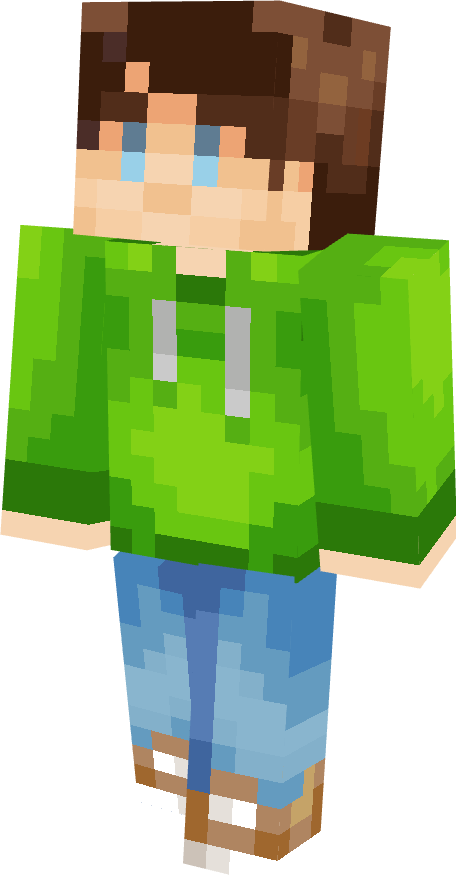
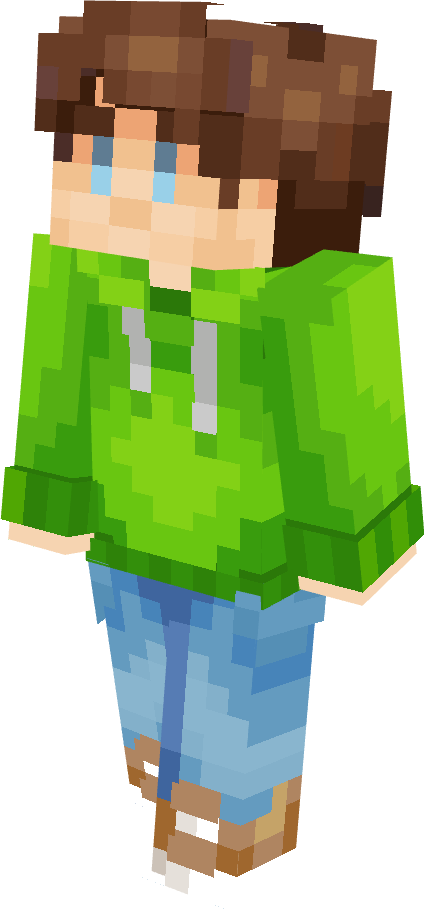
About page, presentation card, presentation text

diff --git a/src/components/ui/presentationcard.tsx b/src/components/ui/presentationcard.tsx
@@ -1,0 +1,98 @@
+import React, { useState } from 'react';
+import { twMerge } from "tailwind-merge";
+
+import styles from '../../assets/styles/components/presentationcard.module.css';
+
+import FrozenmanHead from '../../assets/image/skins/frozenman_head.png?url';
+import MorticzekHead from '../../assets/image/skins/morticzek_head.png?url';
+import MivosVanosHead from '../../assets/image/skins/mivosvanos_head.png?url';
+import QxertyHead from '../../assets/image/skins/qxerty_head.png?url';
+import JustWhenHead from '../../assets/image/skins/justwhen_head.png?url';
+
+import Frozenman from '../../assets/image/skins/frozenman.png?url';
+import Morticzek from '../../assets/image/skins/morticzek.png?url';
+import MivosVanos from '../../assets/image/skins/mivosvanos.png?url';
+import Qxerty from '../../assets/image/skins/qxerty.png?url';
+import JustWhen from '../../assets/image/skins/justwhen.png?url';
+
+const heads = {
+    frozenman: FrozenmanHead,
+    morticzek: MorticzekHead,
+    mivosvanos: MivosVanosHead,
+    qxerty: QxertyHead,
+    justwhen: JustWhenHead,
+};
+
+const names: { [key: string]: string } = {
+    frozenman: 'Frozenman',
+    morticzek: 'Morticzek',
+    mivosvanos: 'MivosVanos',
+    qxerty: 'Qxerty',
+    justwhen: 'JustWhen',
+};
+
+const descriptions: { [key: string]: string } = {
+    frozenman: 'Lorem ipsum dolor sit amet, consectetur adipiscing elit. Morbi id porttitor metus, sed egestas ex. In hac habitasse platea dictumst. Maecenas quis nisi nibh. Fusce sagittis urna quis nibh lacinia, a sollicitudin sapien sagittis. Phasellus porttitor, tellus ac dignissim elementum, risus ex auctor dui, id commodo risus mi vitae metus. Donec blandit quam a purus faucibus condimentum.',
+    morticzek: 'Description for Morticzek.',
+    mivosvanos: 'Description for MivosVanos.',
+    qxerty: 'Description for Qxerty.',
+    justwhen: 'Description for JustWhen.',
+};
+
+const images: { [key: string]: string } = {
+    frozenman: Frozenman,
+    morticzek: Morticzek,
+    mivosvanos: MivosVanos,
+    qxerty: Qxerty,
+    justwhen: JustWhen,
+};
+
+const PresentationCard = () => {
+    // Define state variables
+    const [selectedName, setSelectedName] = useState(names.frozenman);
+    const [selectedDescription, setSelectedDescription] = useState(descriptions.frozenman);
+    const [selectedImage, setSelectedImage] = useState(images.frozenman);
+
+    // Event handler for button click
+    const handleButtonClick = (name: string) => {
+        setSelectedName(names[name]);
+        setSelectedDescription(descriptions[name]);
+        setSelectedImage(images[name]);
+    };
+
+    return (
+        <div className="container mx-auto p-4">
+            <div className="flex justify-center bg-neutral-800 w-fit mx-auto m-4 text-color px-8 py-4 rounded-xl shadow-lg">
+                {Object.keys(heads).map((name, index) => (
+                    <div key={index} className="flex justify-center items-center mx-2">
+                        <button
+                            className="w-16 h-16 rounded-full border-2 border-transparent hover:border-gray-400 transition-colors duration-300"
+                            onClick={() => handleButtonClick(name)}
+                        >
+                            <img
+                                src={heads[name]}
+                                alt="Head"
+                                className="w-16 h-16 rounded-full"
+                            />
+                        </button>
+                    </div>
+                ))}
+            </div>
+            <div className="flex justify-center items-center w-full lg:w-2/3 container mx-auto bg-neutral-800 rounded-xl shadow-lg divide-x-4">
+                <div className="w-1/2 text-left divide-y-2 pr-4 p-6">
+                    <h2 className={twMerge(styles.h2, 'mb-4')}>{selectedName}</h2>
+                    <p className={twMerge(styles.p, 'pt-4')}>{selectedDescription}</p>
+                </div>
+                <div className="flex justify-center w-1/2 items-center text-color p-6">
+                    <img
+                        src={selectedImage}
+                        alt="Skin"
+                        className="rounded-lg p-2"
+                    />
+                </div>
+            </div>
+        </div>
+    );
+};
+
+export default PresentationCard;

diff --git a/src/assets/styles/components/presentationcard.module.css b/src/assets/styles/components/presentationcard.module.css
@@ -1,0 +1,17 @@
+.text-color {
+    color: rgb(230, 230, 230);
+}
+
+h2 {
+    font-family: 'Gabarito', sans-serif;
+    font-weight: 500;
+    font-size: 3rem;
+    color: rgb(230, 230, 230);
+}
+
+p {
+    font-family: 'Gabarito', sans-serif;
+    font-weight: 500;
+    font-size: 1.5rem;
+    color: rgb(230, 230, 230);
+}
